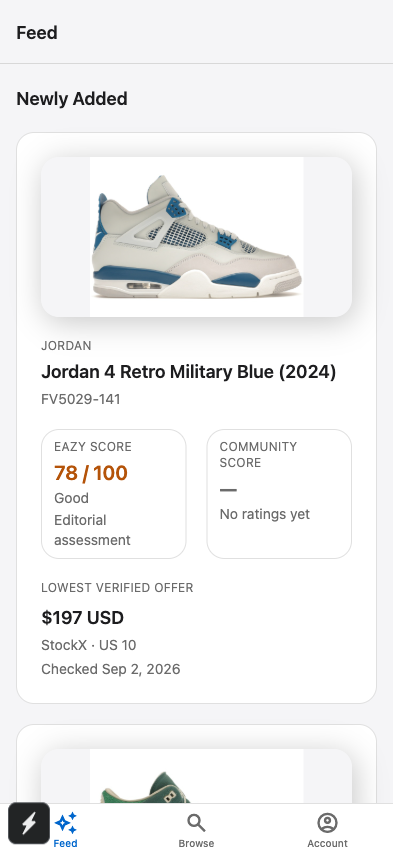
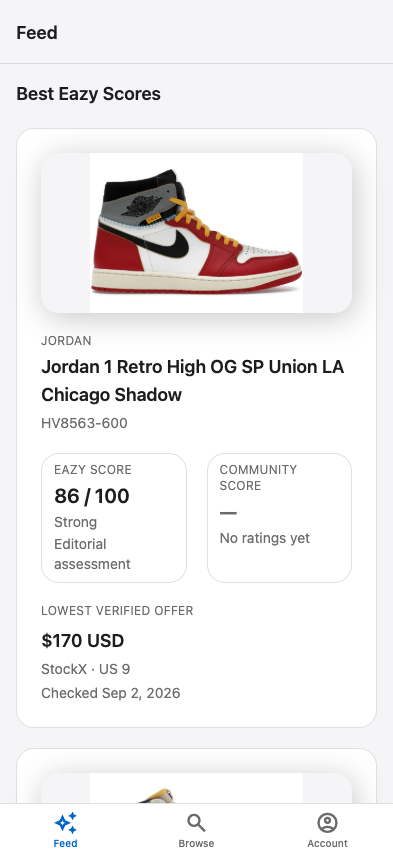
Record review-fix evidence and Feed helper rationale.
Capture Best Eazy Scores in the full Feed screenshot, pin the decision to PR 52, and document why selectFeedSections stays a one-caller helper.

diff --git a/docs/evidence/task-21-real-feed-mvp/RESULT.md b/docs/evidence/task-21-real-feed-mvp/RESULT.md
@@ -29,17 +29,23 @@ Web mobile preview of the connected Feed on the 27-product local catalog
     (`/product/a1000000-0000-4000-8000-000010001700`): **pass**
 - Evidence directory: `docs/evidence/task-21-real-feed-mvp/`
 - Evidence filenames:
-  - `screenshots/web-01-feed-newly-added.png`
-  - `screenshots/web-02-feed-full.png`
+  - `screenshots/web-01-feed-newly-added.png` — Feed top / Newly Added
+  - `screenshots/web-02-feed-full.png` — Feed scrolled to **Best Eazy
+    Scores** (section header + first ranked cards). Distinct hash from
+    `web-01`.
   - `screenshots/web-03-product-detail-from-feed.png`
   - `screenshots/web-04-product-detail-from-best-eazy.png`
 - GitHub disposition: `RESULT.md` plus the four screenshots above are
   selected proof. No local-only raw captures were kept.
-- Findings and severity: none
+- Findings and severity: none after review-fix recapture of `web-02`
 - Known limitations: web-only; native tab chrome and iOS Simulator were
   not exercised. Most Rated cannot appear until two products have
-  community ratings.
+  community ratings. Expo web uses an inner scroll container, so
+  `web-02` is a viewport capture scrolled to Best Eazy Scores rather
+  than a document-height stitch.
 - Automated checks run separately: focused Feed Jest suites 22/22;
-  `npm run typecheck`; `npm run lint`; `npm run check:readonly`
-- Required next decision: human review of the implementation PR; apply
-  `T21: Gated → In Progress` after approval
+  `npm run typecheck`; `npm run lint`; `npm run check:readonly`;
+  parent `npm run check:expo` on the review-fix head
+- Required next decision: human review and acceptance of the
+  implementation PR. Project #4 Status write `T21: Gated → In Progress`
+  was applied after chat approval.

diff --git a/docs/decisions/2026-09-02-real-feed-mvp-sections.md b/docs/decisions/2026-09-02-real-feed-mvp-sections.md
@@ -4,7 +4,7 @@ date: 2026-09-02
 status: accepted
 area: product-ux
 tasks: [21]
-pr: null
+pr: 52
 tags: [catalog, discovery, feed]
 supersedes: []
 ---
@@ -29,7 +29,9 @@ product exists. Ranked sections require at least two qualifying products and
 cap at five cards. Most Rated qualifies on `ratingCount >= 1` and ranks by
 that count, not Community Score. A later section whose ordered product ids
 match an earlier visible section is hidden. Do not add a feed-configuration
-table, a Feed query key, or a Trending label.
+table, a Feed query key, or a Trending label. Keep `selectFeedSections` as a
+one-caller helper so ranking, caps, and duplicate-hide rules stay covered by
+isolated unit tests outside the Feed screen.
 
 ## Consequences
 
